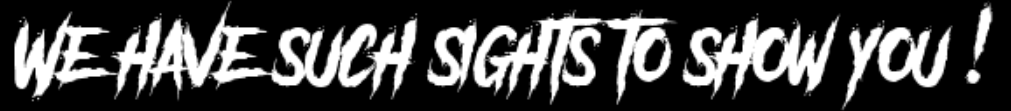
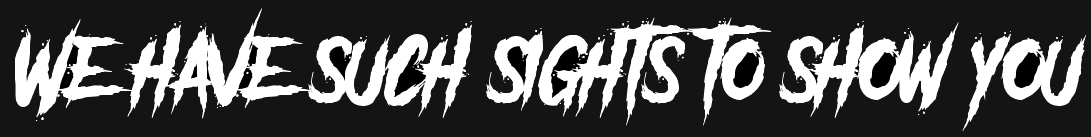
New Design

diff --git a/src/app/header/header.component.html b/src/app/header/header.component.html
@@ -16,18 +16,18 @@
           [ngClass]="{'active': activeButton === 'login'}">
             <img [src]="user" alt="user connexion logo" class="user-logo" />
           </a>
-          <a *ngIf="isLoggedOk()" [routerLink]="'/account'">Mon Profil</a>
+          <a *ngIf="isLoggedOk()" [routerLink]="'/account'" (click)="setActiveButton('account')" [ngClass]="{'active': activeButton === 'account'}">Mon Profil</a>
           <a *ngIf="isLoggedOk()" (click)="logOut()">Me Déconnecter</a>
         </li>
       </ul>
 
-      <button class="header-button" (click)="isLogged()">Is Logged ?</button>
+     <!---- <button class="header-button" (click)="isLogged()">Is Logged ?</button>
       <button class="header-button" (click)="whoIsLogged()">
         Decode Token
       </button>
       <button class="header-button" (click)="getRole()">Get Role</button>
       <button class="header-button" (click)="readToken()">Read Token</button>
-      <button class="header-button" (click)="getUserId()">UserId</button>
+      <button class="header-button" (click)="getUserId()">UserId</button> -->
     </nav>
   </section>
 </header>

diff --git a/src/app/movie-cards/movie-cards.component.scss b/src/app/movie-cards/movie-cards.component.scss
@@ -7,18 +7,19 @@
 .movies-container {
   display: flex;
   gap: 12px;
-  overflow-x: hidden; // Cache la barre de scroll
+  overflow-x: hidden;
   padding: 10px;
   box-sizing: border-box;
   scroll-behavior: smooth;
-  white-space: nowrap; // Empêche le retour à la ligne des films
+  white-space: nowrap;
  
 }
-
 article {
-  flex: 0 0 auto; // Permet de conserver la taille des articles
+  flex: 0 0 auto; 
 }
-
+article:hover {
+  transform: scale(1.04);
+}
 .img {
   border-radius: 5px;
   width: 250px;

diff --git a/src/app/header/header.component.ts b/src/app/header/header.component.ts
@@ -15,7 +15,7 @@ export class HeaderComponent {
   authService: AuthService = inject(AuthService);
   userService: UserService = inject(UserService);
 
-logo: string ="assets/Logo.webp";
+logo: string ="assets/Logo.png";
 user:string="assets/User.png";
 
 activeButton: string = '';

diff --git a/src/app/header/header.component.scss b/src/app/header/header.component.scss
@@ -5,9 +5,12 @@ header {
   overflow-x: hidden;
 }
 
+.Section2 {
+  height: 90px;
+}
+
 a.active {
-  background-color: white;
-  color: black;
+  color: #F57F93;
   padding: 5px 10px;
   border-radius: 4px;
   text-decoration: none;
